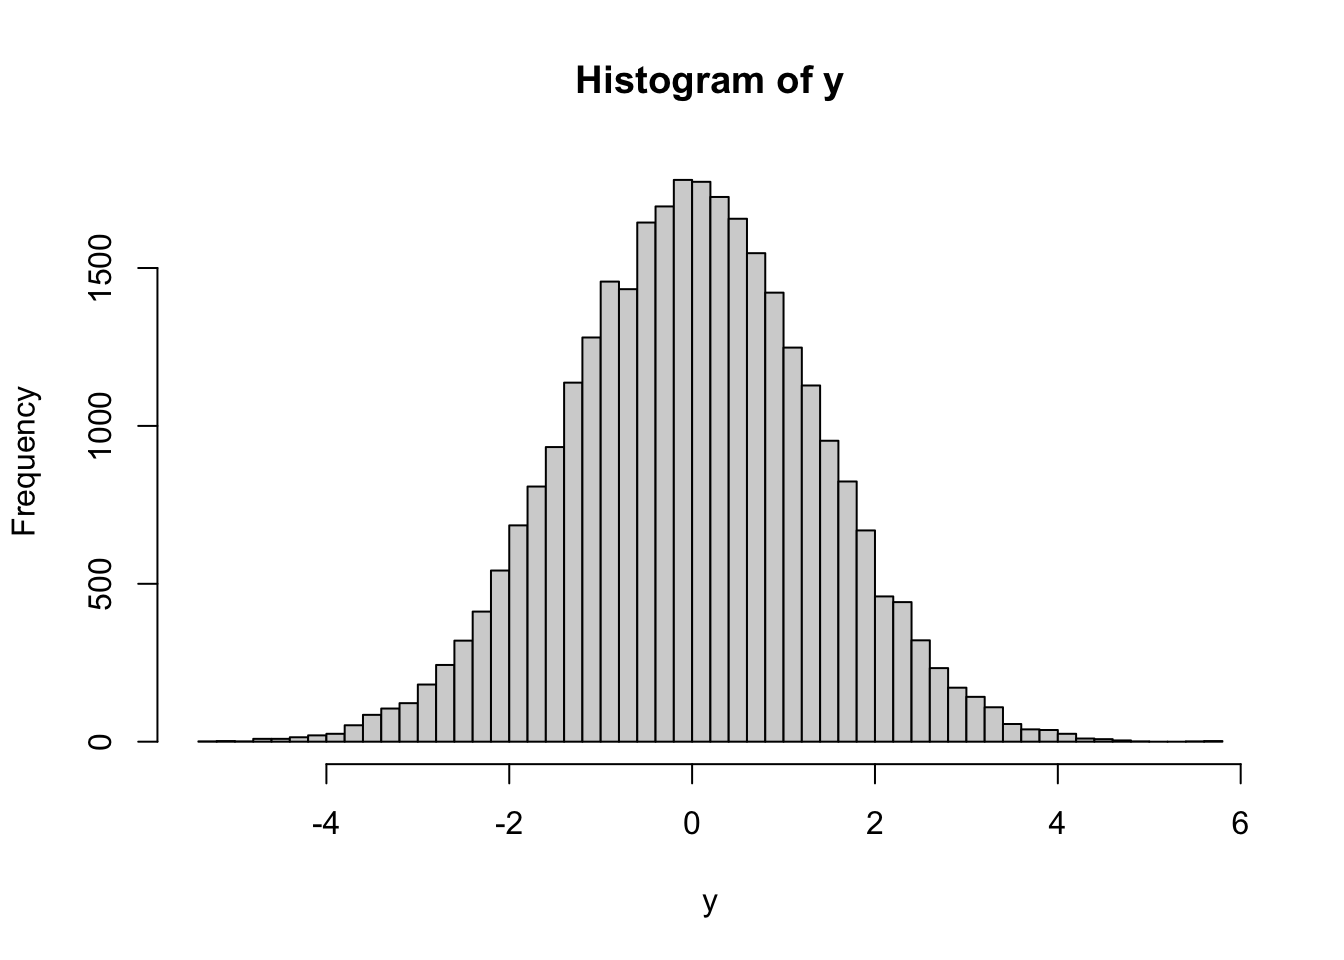
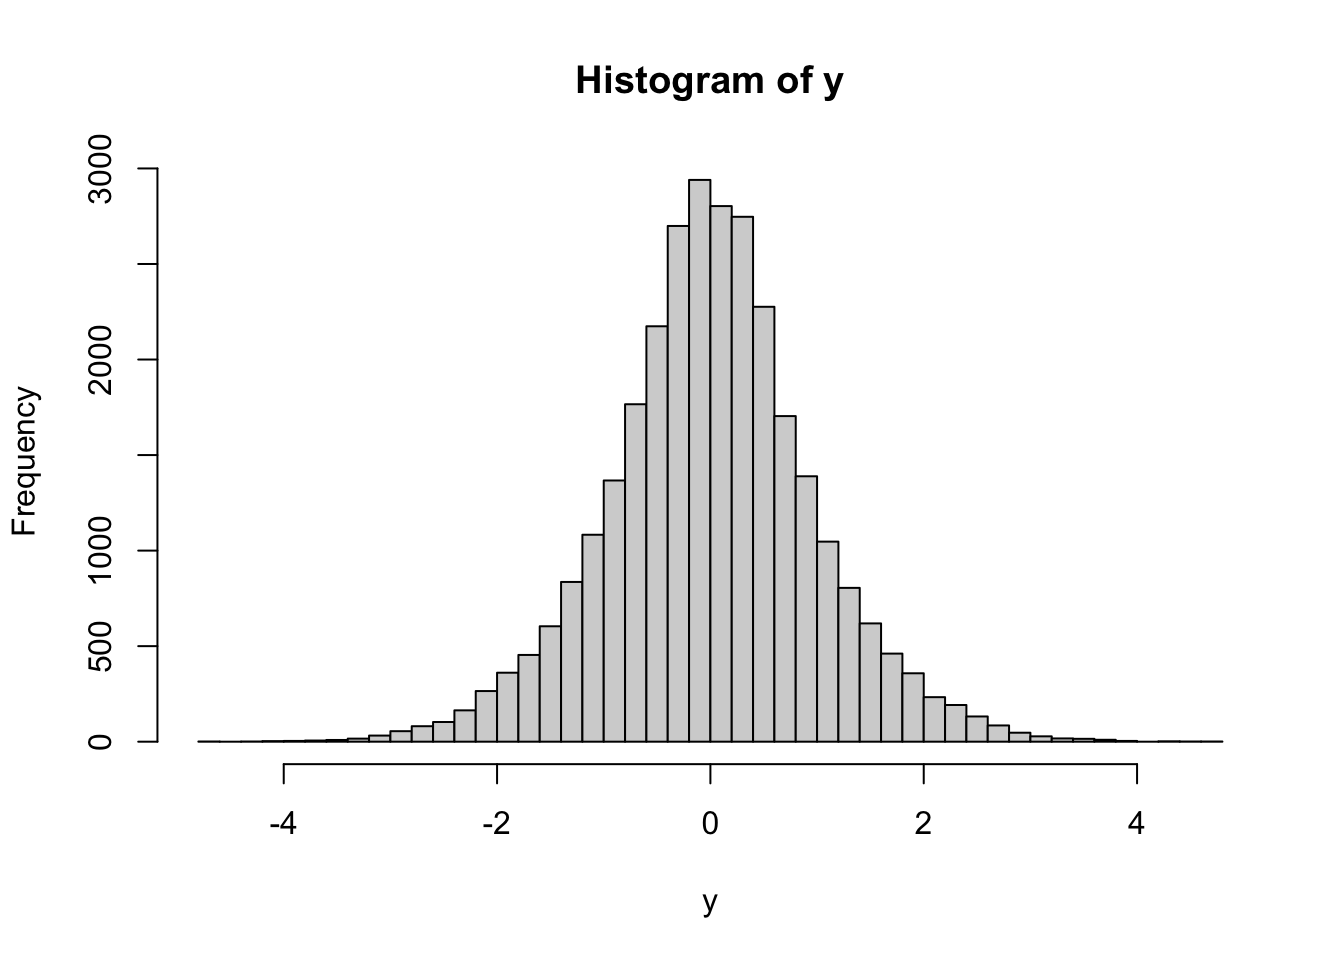
Build site.

diff --git a/docs/BF_based_control.html b/docs/BF_based_control.html
@@ -387,7 +387,7 @@ class="glyphicon glyphicon-ok text-success" aria-hidden="true"></span>
 <div class="tab-content">
 <div id="summary" class="tab-pane fade in active">
 <p>
-<strong>Last updated:</strong> 2025-04-07
+<strong>Last updated:</strong> 2025-04-23
 </p>
 <p>
 <strong>Checks:</strong> <span
@@ -518,15 +518,15 @@ project makes it easier to run your code on other machines.</p>
 <div class="panel panel-default">
 <div class="panel-heading">
 <p class="panel-title">
-<a data-toggle="collapse" data-parent="#workflowr-checks" href="#strongRepositoryversionstrongahrefhttpsgithubcomAgueroZZFASHresultsummarytreee487b3f3bcdbb9bbda93ba4b8dc1a2d400ceb809targetblanke487b3fa">
+<a data-toggle="collapse" data-parent="#workflowr-checks" href="#strongRepositoryversionstrongahrefhttpsgithubcomAgueroZZFASHresultsummarytreed4fe48673a8aefbca67a0add6c1d5e2f83fe7681targetblankd4fe486a">
 <span class="glyphicon glyphicon-ok text-success"
 aria-hidden="true"></span> <strong>Repository version:</strong>
-<a href="https://github.com/AgueroZZ/FASHresultsummary/tree/e487b3f3bcdbb9bbda93ba4b8dc1a2d400ceb809" target="_blank">e487b3f</a>
+<a href="https://github.com/AgueroZZ/FASHresultsummary/tree/d4fe48673a8aefbca67a0add6c1d5e2f83fe7681" target="_blank">d4fe486</a>
 </a>
 </p>
 </div>
 <div
[2 lines of base64/hex data omitted]
 class="panel-collapse collapse">
 <div class="panel-body">
 <p>
@@ -536,7 +536,7 @@ reproducibility.
 </p>
 <p>
 The results in this page were generated with repository version
-<a href="https://github.com/AgueroZZ/FASHresultsummary/tree/e487b3f3bcdbb9bbda93ba4b8dc1a2d400ceb809" target="_blank">e487b3f</a>.
+<a href="https://github.com/AgueroZZ/FASHresultsummary/tree/d4fe48673a8aefbca67a0add6c1d5e2f83fe7681" target="_blank">d4fe486</a>.
 See the <em>Past versions</em> tab to see a history of the changes made
 to the R Markdown and HTML files.
 </p>
@@ -595,6 +595,7 @@ Untracked files:
 
 Unstaged changes:
     Modified:   analysis/_site.yml
+    Modified:   analysis/nonlinear_dynamic_eQTL_real.rmd
     Modified:   code/function/functions_simulating.R
     Modified:   code/function/functions_simulation.R
     Modified:   code/function/functions_simulation_eQTL_test.R
@@ -652,6 +653,40 @@ Message
 Rmd
 </td>
 <td>
+<a href="https://github.com/AgueroZZ/FASHresultsummary/blob/d4fe48673a8aefbca67a0add6c1d5e2f83fe7681/analysis/BF_based_control.rmd" target="_blank">d4fe486</a>
+</td>
+<td>
+Ziang Zhang
+</td>
+<td>
+2025-04-23
+</td>
+<td>
+workflowr::wflow_publish("analysis/BF_based_control.rmd")
+</td>
+</tr>
+<tr>
+<td>
+html
+</td>
+<td>
+<a href="https://rawcdn.githack.com/AgueroZZ/FASHresultsummary/563b779d2288d4339faec2e182f77f50c0e06779/docs/BF_based_control.html" target="_blank">563b779</a>
+</td>
+<td>
+Ziang Zhang
+</td>
+<td>
+2025-04-07
+</td>
+<td>
+Build site.
+</td>
+</tr>
+<tr>
+<td>
+Rmd
+</td>
+<td>
 <a href="https://github.com/AgueroZZ/FASHresultsummary/blob/e487b3f3bcdbb9bbda93ba4b8dc1a2d400ceb809/analysis/BF_based_control.rmd" target="_blank">e487b3f</a>
 </td>
 <td>
@@ -683,10 +718,10 @@ procedure:</p>
 class="math inline">\(\hat{\pi} = (\hat{\pi}_0, \hat{\pi}_1,...,
 \hat{\pi}_K)\)</span>.</li>
 <li>Reweight the alternative hypothesis weights <span
-class="math inline">\(\hat{\pi}_1,..., \hat{\pi}_K\)</span> into <span
-class="math inline">\(\hat{\pi}_1^* = \hat{\pi}_1 / \sum_{k=1}^K
-\hat{\pi}_k\)</span>,…, <span class="math inline">\(\hat{\pi}_K^* =
-\hat{\pi}_K / \sum_{k=1}^K \hat{\pi}_k\)</span>.</li>
+class="math inline">\(\hat{\pi}_1,..., \hat{\pi}_K\)</span> by <span
+class="math inline">\(\hat{\pi}_j^* = \hat{\pi}_j / \sum_{k=1}^K
+\hat{\pi}_k\)</span> for <span
+class="math inline">\(j=1,...,K\)</span>.</li>
 <li>Define <span class="math inline">\(L^c_{i0} = L_{i0}\)</span> and
 <span class="math inline">\(L^c_{i1} = \sum_{k=1}^K L_{ik}
 \hat{\pi}_k^*\)</span>.</li>
@@ -697,9 +732,10 @@ class="math display">\[\text{BF}_i = L^c_{i0}/L^c_{i1}.\]</span></p>
 <p>Write a function for this:</p>
 <pre class="r"><code>collapse_L &lt;- function(L, log = F) {
   if (ncol(L) &gt; 1) {
-    pi_hat_star &lt;- mixsqp::mixsqp(L = L[, -1, drop = FALSE],
+    pi_hat_star &lt;- mixsqp::mixsqp(L = L,
                              log = log,
-                             control = list(verbose = FALSE))$x
+                             control = list(verbose = FALSE))$x[-1]
+    pi_hat_star &lt;- pi_hat_star / sum(pi_hat_star)
   } else{
     pi_hat_star &lt;- rep(1, nrows(L))
   }
@@ -719,10 +755,12 @@ class="math display">\[\text{BF}_i = L^c_{i0}/L^c_{i1}.\]</span></p>
 c)\text{BF}_i}{\sum_{i=1}^N \mathbb{I}(\text{BF}_i \leq c)}\)</span>, as
 well as <span class="math inline">\(\hat{\pi}_0(c) = \frac{\sum_{i=1}^N
 \mathbb{I}(\text{BF}_i \leq c)}{N}\)</span>.</li>
-<li>Find <span class="math inline">\(c^*\)</span> such that <span
-class="math inline">\(\mu(c^*) = 1\)</span>, return <span
-class="math inline">\(\hat{\pi}_0(c^*)\)</span> as the estimated for
+<li>Find the smallest <span class="math inline">\(c^*\)</span> such that
+<span class="math inline">\(\mu(c^*) \geq 1\)</span>, return <span
+class="math inline">\(\hat{\pi}_0(c^*)\)</span> as the estimate for
 <span class="math inline">\(\pi_0\)</span>.</li>
+<li>Formally, <span class="math inline">\(c^* = \inf\{c\in\mathbb{R}^+:
+\mu(c) \geq 1\}\)</span>.</li>
 </ul>
 <p>Let’s write a function for this:</p>
 <pre class="r"><code>BF_control &lt;- function(BF, plot = T) {
@@ -760,104 +798,154 @@ class="math inline">\(\hat{\pi}_0(c^*)\)</span> as the estimated for
 </div>
 <div id="example" class="section level2">
 <h2>Example</h2>
-<pre class="r"><code>## simulate n observation from mixture of two normal distributions
+<pre class="r"><code>set.seed(1234)
+## simulate n observation from mixture of two normal distributions
 n &lt;- 30000
 # Specify the true alternative hypothesis of N(0, true_sd)
 true_sd &lt;- 1
-pi0_true &lt;- 0.1
+pi0_true &lt;- 0.3
 x &lt;- c(rep(0, ceiling(n*pi0_true)), rnorm(n = ceiling(n*(1-pi0_true)), mean = 0, sd = true_sd))
 ## simulate y based on x
-sebetahat &lt;- 1
+sebetahat &lt;- 0.5
 y &lt;- x + rnorm(n, mean = 0, sd = sebetahat)
 hist(y, breaks = 50)</code></pre>
 <p><img src="figure/BF_based_control.rmd/unnamed-chunk-3-1.png" width="672" style="display: block; margin: auto;" /></p>
+<p>
+<button type="button" class="btn btn-default btn-xs btn-workflowr btn-workflowr-fig" data-toggle="collapse" data-target="#fig-unnamed-chunk-3-1">
+Past versions of unnamed-chunk-3-1.png
+</button>
+</p>
+<div id="fig-unnamed-chunk-3-1" class="collapse">
+<div class="table-responsive">
+<table class="table table-condensed table-hover">
+<thead>
+<tr>
+<th>
+Version
+</th>
+<th>
+Author
+</th>
+<th>
+Date
+</th>
+</tr>
+</thead>
+<tbody>
+<tr>
+<td>
+<a href="https://github.com/AgueroZZ/FASHresultsummary/blob/563b779d2288d4339faec2e182f77f50c0e06779/docs/figure/BF_based_control.rmd/unnamed-chunk-3-1.png" target="_blank">563b779</a>
+</td>
+<td>
+Ziang Zhang
+</td>
+<td>
+2025-04-07
+</td>
+</tr>
+</tbody>
+</table>
+</div>
+</div>
 <pre class="r"><code>## fit ash with a fitted alternative hypothesis of N(0, fit_sd)
 fit_sd &lt;- c(0.1,0.3,0.5)
 ash_fit &lt;- ashr::ash(betahat = y, sebetahat = sebetahat, mixcompdist = &quot;normal&quot;, mixsd = fit_sd, nullweight = 1, outputlevel = 3)
 ash_fit$fitted_g$pi[1]</code></pre>
 <pre><code>[1] 0</code></pre>
 <pre class="r"><code>L_mat &lt;- ash_fit$fit_details$matrix_lik
-## fit biased MoM
-mean(apply(ash_fit$fit_details$matrix_lik, 1, which.max) == 1)</code></pre>
-<pre><code>[1] 0.5387333</code></pre>
-<pre class="r"><code>L_c &lt;- collapse_L(L_mat)
+L_c &lt;- collapse_L(L_mat)
 BF &lt;- L_c[, 2] / L_c[, 1]
 pi0_hat_star &lt;- BF_control(BF)</code></pre>
-<p><img src="figure/BF_based_control.rmd/unnamed-chunk-4-1.png" width="672" style="display: block; margin: auto;" /></p>
-<pre class="r"><code># tail(pi0_hat_star$mu)
-pi0_hat_star$pi0_hat_star</code></pre>
-<pre><code>[1] 0.8751</code></pre>
+<p><img src="figure/BF_based_control.rmd/unnamed-chunk-3-2.png" width="672" style="display: block; margin: auto;" /></p>
+<pre class="r"><code>pi0_hat_star$pi0_hat_star</code></pre>
+<pre><code>[1] 0.7618</code></pre>
 <pre class="r"><code>BF1 &lt;- BF[1:(pi0_true*n)]
-BF2 &lt;- BF[(pi0_true*n+1):n]
-
-mean(BF1)</code></pre>
-<pre><code>[1] 1.003483</code></pre>
-<pre class="r"><code>mean(BF2^(-1))</code></pre>
-<pre><code>[1] 0.9476919</code></pre>
-<pre class="r"><code>var(BF1) + (mean(BF1)^2)</code></pre>
-<pre><code>[1] 1.043348</code></pre>
-<pre class="r"><code>mean(BF1^2)</code></pre>
-<pre><code>[1] 1.043336</code></pre>
-<pre class="r"><code>mean(BF2)</code></pre>
-<pre><code>[1] 1.14326</code></pre>
-<pre class="r"><code>mean(BF1^(-1))</code></pre>
-<pre><code>[1] 1.018853</code></pre>
-<pre class="r"><code>mean(BF2^(-2))</code></pre>
-<pre><code>[1] 0.935565</code></pre>
-<pre class="r"><code>par(mfrow = c(2, 2))
-hist(log(BF1), breaks = 100, freq = F, xlab = &quot;log-BF&quot;, main = &quot;Histogram of log-BF: H0&quot;)
-hist(log(BF2), breaks = 100, freq = F, xlab = &quot;log-BF&quot;, main = &quot;Histogram of log-BF: H1&quot;)
-hist((BF1), breaks = 100, freq = F, xlab = &quot;BF&quot;, main = &quot;Histogram of BF: H0&quot;)
-hist((BF2), breaks = 100, freq = F, xlab = &quot;BF&quot;, main = &quot;Histogram of BF: H1&quot;)</code></pre>
-<p><img src="figure/BF_based_control.rmd/unnamed-chunk-5-1.png" width="672" style="display: block; margin: auto;" /></p>
-<pre class="r"><code>par(mfrow = c(1, 1))</code></pre>
-<pre class="r"><code># ECDF of BF1
-plot(ecdf(BF1), xlab = &quot;BF&quot;, ylab = &quot;F(BF)&quot;, main = &quot;ECDF of BF: H0&quot;)
+# ECDF of BF1
+plot(ecdf(BF1), xlab = &quot;BF&quot;, ylab = &quot;F(BF)&quot;, main = &quot;ECDF of BF: Under null hypothesis&quot;)
 # Plot Markov Bound
-markov_bound &lt;- 1 - 1/seq(0, max(BF), by = 0.01)
-lines(y = markov_bound, x = seq(0, max(BF), by = 0.01), col = &quot;red&quot;)</code></pre>
-<p><img src="figure/BF_based_control.rmd/unnamed-chunk-6-1.png" width="672" style="display: block; margin: auto;" /></p>
-<pre class="r"><code># ECDF of BF2
-plot(ecdf(BF2), xlab = &quot;BF&quot;, ylab = &quot;F(BF)&quot;, main = &quot;ECDF of BF: H1&quot;)</code></pre>
-<p><img src="figure/BF_based_control.rmd/unnamed-chunk-6-2.png" width="672" style="display: block; margin: auto;" /></p>
+markov_bound &lt;- 1 - 1/seq(0, 200, by = 0.01)
+lines(y = markov_bound, x = seq(0, 200, by = 0.01), col = &quot;red&quot;)</code></pre>
+<p><img src="figure/BF_based_control.rmd/unnamed-chunk-4-1.png" width="672" style="display: block; margin: auto;" /></p>
+<p>
+<button type="button" class="btn btn-default btn-xs btn-workflowr btn-workflowr-fig" data-toggle="collapse" data-target="#fig-unnamed-chunk-4-1">
+Past versions of unnamed-chunk-4-1.png
+</button>
+</p>
+<div id="fig-unnamed-chunk-4-1" class="collapse">
+<div class="table-responsive">
+<table class="table table-condensed table-hover">
+<thead>
+<tr>
+<th>
+Version
+</th>
+<th>
+Author
+</th>
+<th>
+Date
+</th>
+</tr>
+</thead>
+<tbody>
+<tr>
+<td>
+<a href="https://github.com/AgueroZZ/FASHresultsummary/blob/563b779d2288d4339faec2e182f77f50c0e06779/docs/figure/BF_based_control.rmd/unnamed-chunk-4-1.png" target="_blank">563b779</a>
+</td>
+<td>
+Ziang Zhang
+</td>
+<td>
+2025-04-07
+</td>
+</tr>
+</tbody>
+</table>
+</div>
+</div>
 </div>
 <div id="why-this-procedure-is-conservative" class="section level2">
 <h2>Why this procedure is conservative?</h2>
 <p>Let’s see why the BF-based control gives conservative estimate of
 <span class="math inline">\(\pi_0\)</span>.</p>
 <p>Assume we have <span class="math inline">\(N\)</span> independent
-observations, with <span class="math inline">\(N_0\)</span> null
-hypotheses and <span class="math inline">\(N_1\)</span> alternative
-hypotheses.</p>
+observations, with <span class="math inline">\(N_0\)</span> from the
+null hypothesis and <span class="math inline">\(N_1\)</span> from the
+alternative hypothesis.</p>
 <p>We say <span class="math inline">\(i\in H_0\)</span>, if the <span
-class="math inline">\(i\)</span>th observation is null, and <span
-class="math inline">\(i\in H_1\)</span>, if the <span
-class="math inline">\(i\)</span>th observation is alternative.</p>
+class="math inline">\(i\)</span>th observation is from the null, and
+<span class="math inline">\(i\in H_1\)</span>, if the <span
+class="math inline">\(i\)</span>th observation is from the
+alternative.</p>
 <p>If <span class="math inline">\(N\)</span> is large, we know
-approximately that: <span class="math display">\[\pi_0 \approx
-N_0/N.\]</span> We also know that if <span
-class="math inline">\(H_0\)</span> is correctly specified, <span
-class="math display">\[\frac{\sum_{i \in H_0} \text{BF}_i}{N_0} \approx
-1.\]</span></p>
-<p>Suppose we define <span class="math inline">\(\tilde{H}_0 =
-\{i\in[N]:\text{BF}_i\leq c^*\}\)</span>, where <span
-class="math inline">\(c^*\)</span> is the cutoff we found in the
-BF-based control procedure such that <span
-class="math display">\[\frac{\sum_{i \in \tilde{H}_0}
-\text{BF}_i}{\tilde{N}_0} \geq 1.\]</span></p>
-<p>Then we claim: <span class="math display">\[\tilde{N}_0 \geq
-N_0.\]</span></p>
-<p>To see this, assume that <span class="math inline">\(|H_0 \cap
-\tilde{H}_0^C|= N_{0,1}\)</span> and <span class="math inline">\(|H_0
-\cap \tilde{H}_0|= N_{0,0}\)</span>. It is clear that <span
-class="math inline">\(N_{0,1} + N_{0,0} = N_0\)</span>.</p>
-<p>Further denote <span class="math inline">\(|H_0^C \cap \tilde{H}_0|=
-N_{1,0}\)</span>, we know that <span class="math inline">\(\hat{\pi}_0 =
-\frac{N_{0,0} + N_{1,0}}{N}\)</span> and <span
-class="math inline">\(\pi_0 \approx \frac{N_{0,0} +
-N_{0,1}}{N}\)</span>.</p>
-<p>Therefore, we just need to show that <span
-class="math inline">\(N_{1,0} \geq N_{0,1}\)</span>.</p>
+approximately (by LLN) that: <span class="math display">\[\pi_0 =
+N_0/N.\]</span> We also know by LLN that if <span
+class="math inline">\(H_0\)</span> is correctly specified, then
+(approximately) <span class="math display">\[\frac{\sum_{i \in H_0}
+\text{BF}_i}{N_0} = 1.\]</span></p>
+<p>Let <span class="math inline">\({\tilde{N}_0}\)</span> be the number
+of observations that are below the cutoff <span
+class="math inline">\(c^*\)</span>, and <span
+class="math inline">\(\tilde{H}_0\)</span> be the set of indices such
+that <span class="math inline">\(\text{BF}_i \leq c^*\)</span>.
+Similarly, let <span class="math inline">\(\tilde{N}_1\)</span> be the
+number of observations that are above the cutoff <span
+class="math inline">\(c^*\)</span>, and <span
+class="math inline">\(\tilde{H}_1\)</span> be the set of indices such
+that <span class="math inline">\(\text{BF}_i &gt; c^*\)</span>.</p>
+<p>By construction we know <span class="math display">\[\frac{\sum_{i
+\in \tilde{H}_0} \text{BF}_i}{\tilde{N}_0} \geq 1.\]</span></p>
+<p>The claim we try to prove is: <span
+class="math display">\[\tilde{N}_0 \geq N_0.\]</span></p>
+<p>To see this, denote <span class="math inline">\(N_{l,j} = |H_l \cap
+\tilde{H}_j^C|\)</span> where <span class="math inline">\(l,j \in
+\{0,1\}\)</span>. It is clear that <span class="math inline">\(N_{0,1} +
+N_{0,0} = N_0\)</span>, and <span class="math inline">\(N_{1,0} +
+N_{0,0} = \tilde{N}_0\)</span>.</p>
+<p>Hence <span class="math inline">\(\hat{\pi}_0 = \frac{N_{0,0} +
+N_{1,0}}{N}\)</span> and <span class="math inline">\(\pi_0 =
+\frac{N_{0,0} + N_{0,1}}{N}\)</span>, and we just need to show that
+<span class="math inline">\(N_{1,0} \geq N_{0,1}\)</span>.</p>
 <p>Using the fact that <span class="math inline">\(\frac{\sum_{i \in
 H_0} \text{BF}_i}{N_0} = 1\)</span>, it is clear that: <span
 class="math display">\[
@@ -882,7 +970,7 @@ H_0 \cap \tilde{H}_0} \text{BF}_i}{N_{1,0} + N_{0,0}}
 <p>Therefore, we know: <span class="math display">\[
 \frac{c^* N_{0,1} + \sum_{i \in H_0 \cap \tilde{H}_0}
 \text{BF}_i}{N_{0,1} + N_{0,0}}
-\leq
+\leq 1 \leq
 \frac{c^* N_{1,0} + \sum_{i\in H_0 \cap \tilde{H}_0}
 \text{BF}_i}{N_{1,0} + N_{0,0}}.
 \]</span></p>
